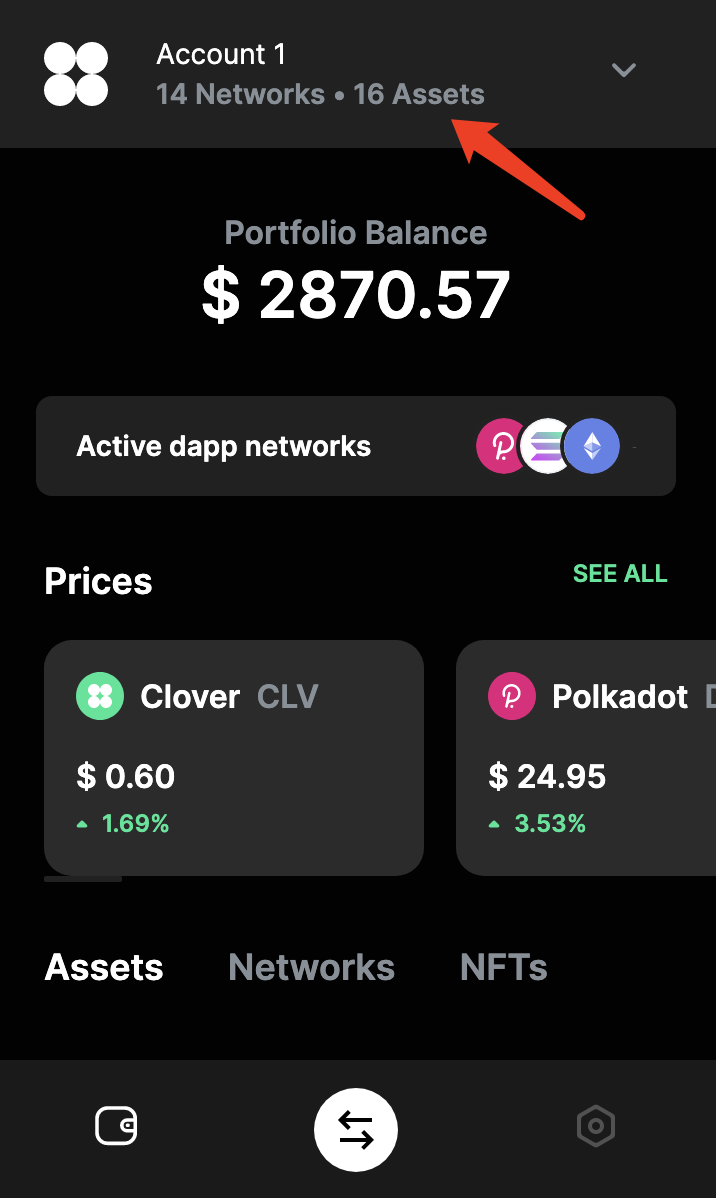
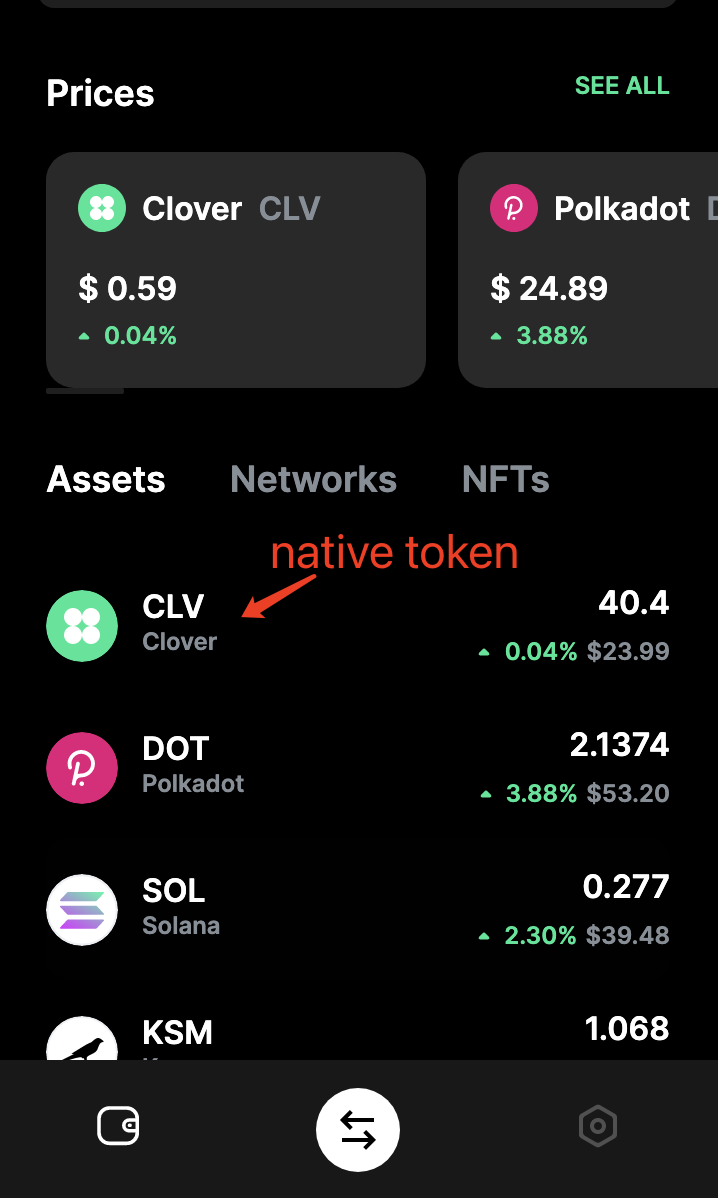
GitBook: [#270] No subject

diff --git a/wallet-and-dapp/clover-extension-wallet/cross-chain-transfer.md b/wallet-and-dapp/clover-extension-wallet/cross-chain-transfer.md
@@ -20,52 +20,50 @@ This is the erc20 token deployed on Ethereum. The address format is like: **0xcd
 
 This is the bep20 token deployed on BSC. The address format is like: **0xcdbf90174493dcc418f177a4d7b2604a95997e1f**. The smart contract address is: [0x09E889BB4D5b474f561db0491C38702F367A4e4d](https://bscscan.com/address/0x09E889BB4D5b474f561db0491C38702F367A4e4d)
 
-## CLV Tokens on Extension Wallet
+## CLV Native Token
 
-If you install Clover extension wallet, you should see these three assets:
+If you install Clover extension wallet, you should see Clover token:
 
-![Three CLV assets, on Clover chain, BSC and Ethereum](<../../.gitbook/assets/image (77).png>)
+![](<../../.gitbook/assets/image (91).png>)
 
-## CLV Tokens on Mobile Wallet
+Please note that this is Clover native token (the address format has a prefix of 5)
 
-If you install Clover mobile wallet, you should see these three assets:
+## Add Clover Wrapped Tokens
 
-![](<../../.gitbook/assets/image (78).png>)
+When you wan to make a cross-chain transfer, you may need to add Clover wrapped tokens on target networks, such as Ethereum, BSC. You can click the 'Add Token' button on the bottom of the main page:
+
+![](<../../.gitbook/assets/image (96).png>)
 
 ## Make a Cross-Chain Transfer
 
 If you have the knowledge of the three different CLV assets. It is time to make a cross-chain transfer. Let us give an example of **how to transfer native CLV token to Ethereum**. Here we will use extension wallet to explain (You can use mobile wallet to do cross-chain transfer as well !).
 
-### 1. Click the CLV native token
+### 1. Click action button and select 'Cross Chain'
 
-![You need to Click your native CLV token](<../../.gitbook/assets/image (79).png>)
+![](<../../.gitbook/assets/image (101).png>)
 
-### 2. Go to the asset page, and click Cross-Chain button
-
-![Click the cross-chain button](<../../.gitbook/assets/image (80).png>)
-
-### 3. Select target chain
+### 2. Select target chain
 
 You need to select Ethereum if you want to send CLV to your Ethereum account address. (**By default, CLV will be sent to BSC chain !**)
 
-![](<../../.gitbook/assets/image (81).png>)
+![](<../../.gitbook/assets/image (103).png>)
 
-### 4. Fill in the form
+### 3. Input recipient address and send amount
 
 Before you click Continue button, please make sure:
 
-* The target chain is correct,  here we use Ethereum
+* The target chain is correct,  here we use BSC
 * The recipient address is correct.
-* The transfer amount (There is a minimum amount for cross-chain )
+* The transfer amount (There is a minimum amount for cross-chain)
 
-![](<../../.gitbook/assets/image (82).png>)
+![](<../../.gitbook/assets/image (104).png>)
 
 Please noted that:&#x20;
 
 * If you cross-chain transfer CLV to Ethereum or BSC, there will be a cross-chain fee + transaction fee charged.  However, users don't need to pay ETH or BNB as cross-chain fee.
 * You can check current cross-chain fee at [https://tx.clover.finance/](https://tx.clover.finance)
 
-### 5. Confirm your cross-chain transaction
+### 4. Confirm your cross-chain transaction
 
 Once you confirm and send the cross-chain transaction, you can just wait for your transaction to be successful. You can check your cross-chain transaction in your wallet or Clover's cross-chain transaction explorer at [https://tx.clover.finance/](https://tx.clover.finance)
 

diff --git a/maintain/staking-on-clover/staking-via-apps.md b/maintain/staking-on-clover/staking-via-apps.md
@@ -44,7 +44,7 @@ Confirm and send the transaction and wait for the transaction is included in the
 
 More actions could be found by clicking on the dots at the right side of the account details:
 
-![Account actions](<../../.gitbook/assets/image (91) (1) (1).png>)
+![Account actions](<../../.gitbook/assets/image (91) (1) (1) (1).png>)
 
 You can:
 

diff --git a/wallet-and-dapp/clover-extension-wallet/import-account.md b/wallet-and-dapp/clover-extension-wallet/import-account.md
@@ -4,7 +4,7 @@
 
 Any time you want to restore or import your account , just click on the account on the top of the asset list page.
 
-![](<../../.gitbook/assets/image (91).png>)
+![](<../../.gitbook/assets/image (91) (1).png>)
 
 ## Select 'Import Account'
 

diff --git a/maintain/staking-on-clover/staking-via-clover-wallet.md b/maintain/staking-on-clover/staking-via-clover-wallet.md
@@ -21,7 +21,7 @@ The following guide shows how to stake CLV on Clover mobile wallet.
 
 ### Input CLV Amount for Staking
 
-![](<../../.gitbook/assets/image (91) (1).png>)
+![](<../../.gitbook/assets/image (91) (1) (1).png>)
 
 ### Sign the Transaction
 

diff --git a/wallet-and-dapp/clover-extension-wallet/send-tokens.md b/wallet-and-dapp/clover-extension-wallet/send-tokens.md
@@ -14,7 +14,7 @@ You can also select your recipient from your address book.
 
 ## Input Amount and Continue
 
-![](<../../.gitbook/assets/image (101).png>)
+![](<../../.gitbook/assets/image (101) (1).png>)
 
 ## Confirm the Transaction and Send
 

diff --git a/wallet-and-dapp/clover-extension-wallet/switch-networks.md b/wallet-and-dapp/clover-extension-wallet/switch-networks.md
@@ -13,4 +13,4 @@ Clover wallet is capable of connecting to multiple blockchain networks simultane
 
 Click the EVM network you want to switch
 
-![](<../../.gitbook/assets/image (96) (1).png>)
+![](<../../.gitbook/assets/image (96) (1) (1).png>)
